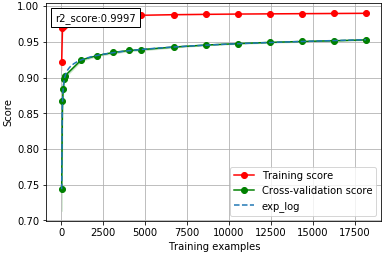
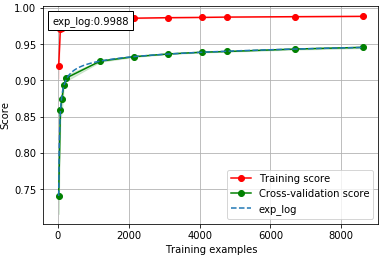
updated images and code to match doc

Changed region(s): [[0.0, 0.0, 1.0, 1.0]]

diff --git a/learning_curves.py b/learning_curves.py
@@ -133,7 +133,7 @@ class LearningCurve():
         """
         if not 'data' in self.recorder:
             raise RuntimeError("recorder is empty. You must first compute learning curve data points using the train method.")
-        return self.plot_cust(predictor=predictor, ylim=ylim, figsize=figsize, title=title, **self.recorder["data"], **kwargs)
+        return self.plot_cust(predictor=predictor, **self.recorder["data"], **kwargs)
 
 
     def plot_cust(self, train_sizes, train_scores_mean, train_scores_std, test_scores_mean, test_scores_std, 
@@ -174,7 +174,7 @@ class LearningCurve():
             ax = self.plot_fitted_curve(ax, predictor, train_sizes) 
 
         # Print score
-        if scores:
+        if predictor is not None and scores is True:
             text = ""
             for i, predictor in enumerate(predictors_to_print):
                 text += f"{predictor.name}:{round(predictor.score,4)}" + ("\n" if i+1 < len(predictors_to_print) else "")
